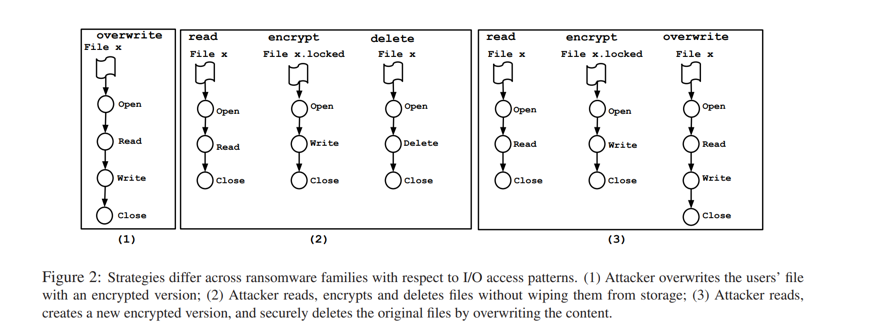
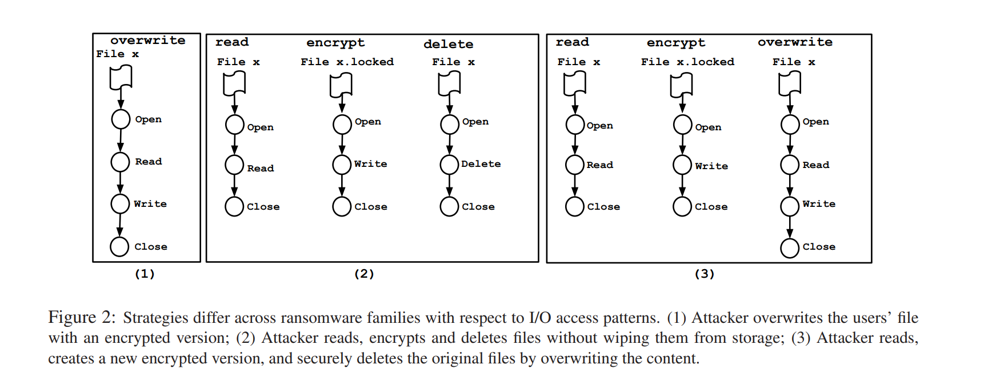
auto resize images

diff --git a/docs/_posts/2023-06-07-ransomware-attack-pattern.md b/docs/_posts/2023-06-07-ransomware-attack-pattern.md
@@ -68,7 +68,7 @@ Detailed Explanation [paper](https://www.usenix.org/system/files/conference/usen
 
 ---
 
-![center w:600 h:500](../assets/img/posts/rans_att1.png)
+![center w:600 h:500](../assets/img/posts/shrink_rans_att1.png)
 
 
 
@@ -84,7 +84,7 @@ Detailed Explanation [paper](https://www.usenix.org/system/files/conference/usen
 
 ### R W continously 
 
-![center h:500 w:600](../assets/img/posts/reovw.png)
+![center h:500 w:600](../assets/img/posts/shrink_reovw.png)
 
 ---
 
@@ -96,7 +96,7 @@ Detailed Explanation [paper](https://www.usenix.org/system/files/conference/usen
 
 ### Read Write chunk by chunk
 
-![center h:500 w:600](../assets/img/posts/rwcc.png)
+![center h:500 w:600](../assets/img/posts/shrink_rwcc.png)
 
 
 ---
@@ -123,7 +123,7 @@ Detailed Explanation [paper](https://www.usenix.org/system/files/conference/usen
 
 ---
 
-![center h:500 w:600](../assets/img/posts/rwccc.png)
+![center h:500 w:600](../assets/img/posts/shrink_rwccc.png)
 
 
 
@@ -133,7 +133,7 @@ Detailed Explanation [paper](https://www.usenix.org/system/files/conference/usen
 ### Multi-threaded R / W
 
 
-![center h:500 w:600](../assets/img/posts/rwmtt.png)
+![center h:500 w:600](../assets/img/posts/shrink_rwmtt.png)
 
 ---
 
